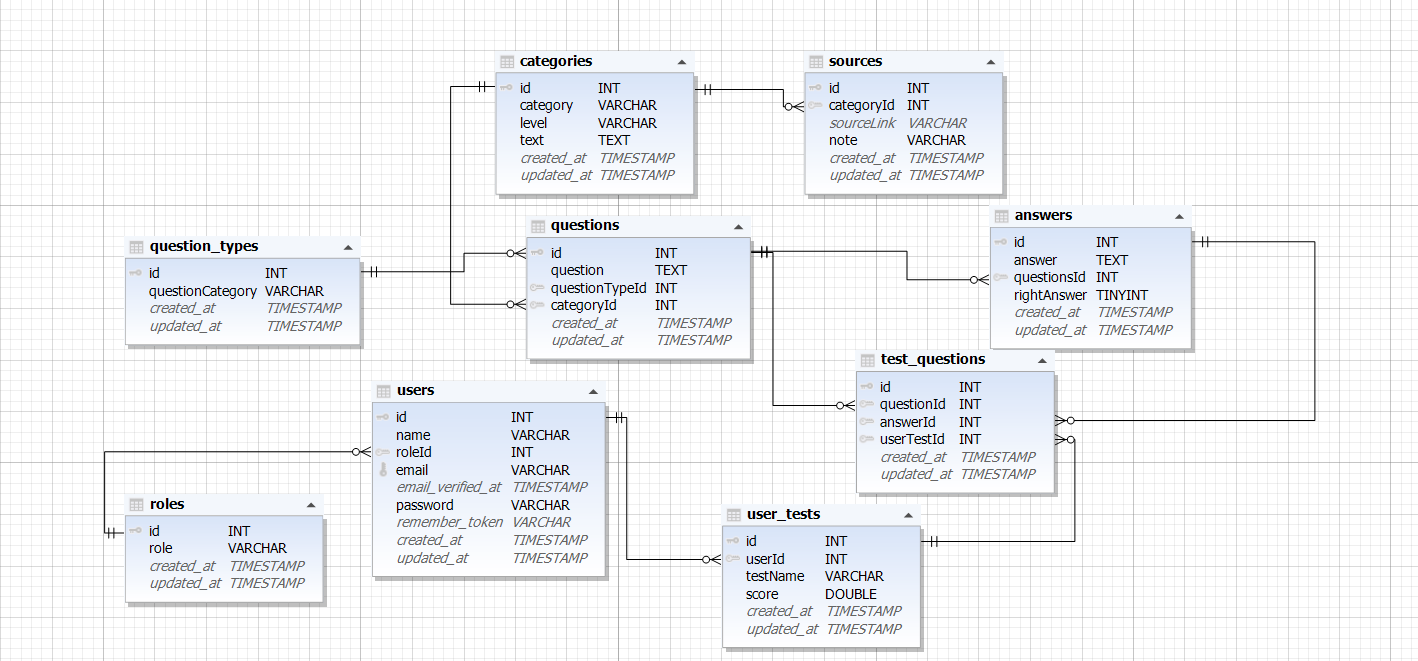
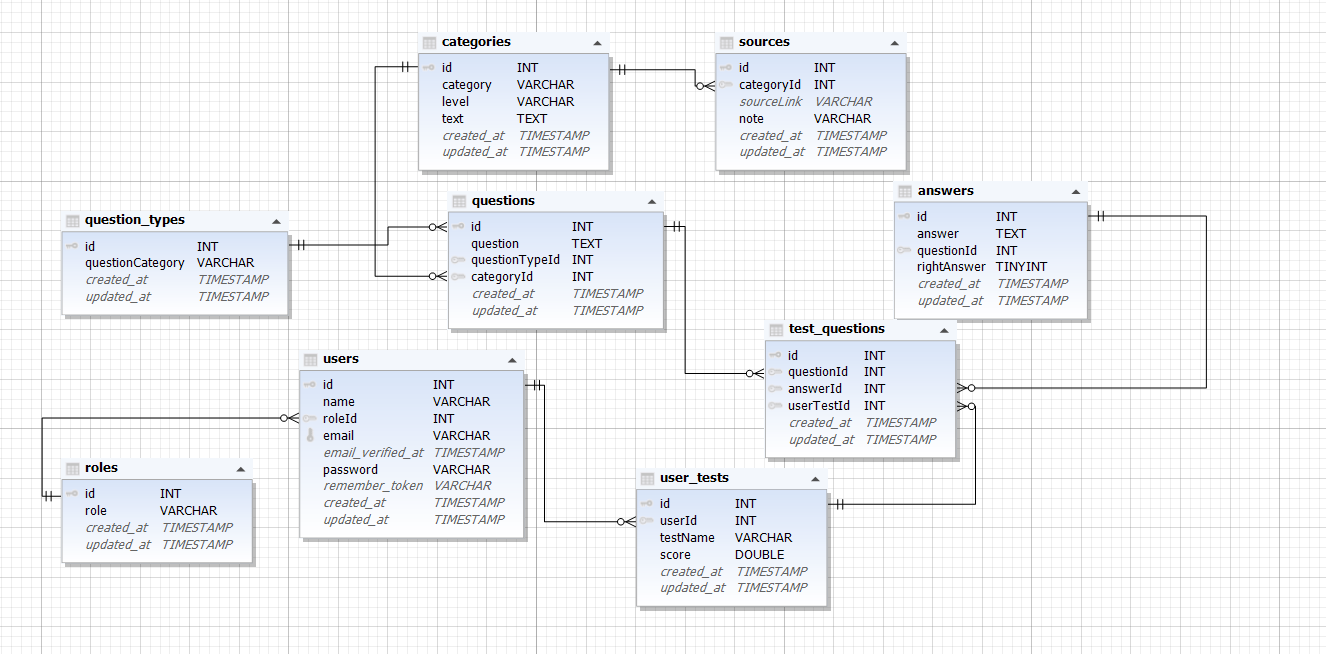
elírás javítása és diagram javítása

diff --git a/backend/database/migrations/2025_02_04_095044_create_answers_table.php b/backend/database/migrations/2025_02_04_095044_create_answers_table.php
@@ -13,11 +13,11 @@ return new class extends Migration {
         Schema::create('answers', function (Blueprint $table) {
             $table->integer('id')->autoIncrement();
             $table->text('answer');
-            $table->integer('questionsId');
+            $table->integer('questionId');
             $table->tinyInteger('rightAnswer')->default(0);
             $table->timestamps();
 
-            $table->foreign('questionsId')->references('id')->on('questions')->onDelete('cascade');
+            $table->foreign('questionId')->references('id')->on('questions')->onDelete('cascade');
         });
     }
 

diff --git a/backend/database/seeders/AnswerSeeder.php b/backend/database/seeders/AnswerSeeder.php
@@ -34,7 +34,7 @@ class AnswerSeeder extends Seeder
                 // A válasz rögzítése, a helyes válasz csak egy válaszhoz tartozik
                 Answer::create([
                     'answer' => $faker->sentence(), // Véletlenszerű válasz
-                    'questionsId' => $question->id, // Kapcsolódás a kérdéshez
+                    'questionId' => $question->id, // Kapcsolódás a kérdéshez
                     'rightAnswer' => ($i === $correctAnswerPosition) ? 1 : 0, // Ha a helyes válasz pozíciója, akkor 1 (helyes), egyébként 0
                 ]);
             }

diff --git a/backend/app/Models/Answer.php b/backend/app/Models/Answer.php
@@ -8,9 +8,9 @@ use Illuminate\Database\Eloquent\Model;
 class Answer extends Model
 {
     use HasFactory;
-    protected $fillable = ['answer', 'questionsId', 'rightAnswer'];
+    protected $fillable = ['answer', 'questionId', 'rightAnswer'];
     public function question()
     {
-        return $this->belongsTo(Question::class, 'questionsId');
+        return $this->belongsTo(Question::class, 'questionId');
     }
 }

diff --git a/backend/app/Http/Controllers/AnswerController.php b/backend/app/Http/Controllers/AnswerController.php
@@ -57,7 +57,7 @@ class AnswerController extends Controller
                 $data = [
                     'message' => 'source incorrect',
                     'answer' => $request['answer'],
-                    'questionsId' => $request['questionId'],
+                    'questionId' => $request['questionId'],
                     'rightAnswer' => $request['rightAnswer'],
                 ];
             }

diff --git a/backend/tests/Unit/DatabaseTest.php b/backend/tests/Unit/DatabaseTest.php
@@ -187,7 +187,7 @@ public function test_roles_table_structure()
         $columns = [
             'id' => 'int',
             'answer' => 'text',
-            'questionsId' => 'int',
+            'questionId' => 'int',
             'rightAnswer' => 'tinyint',
         ];
 
